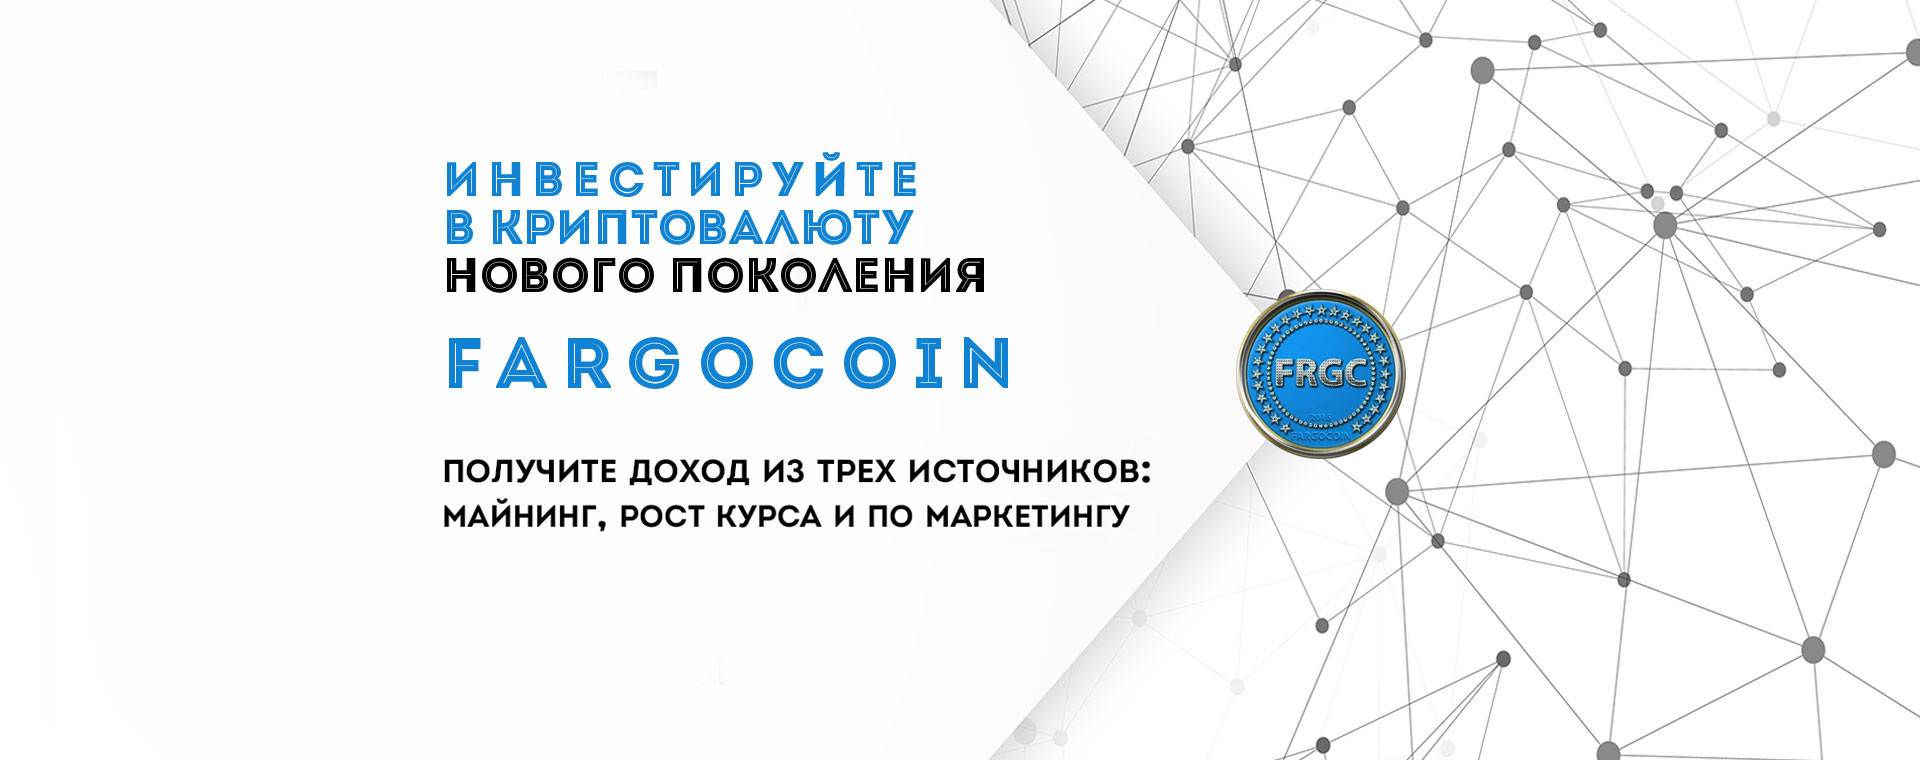
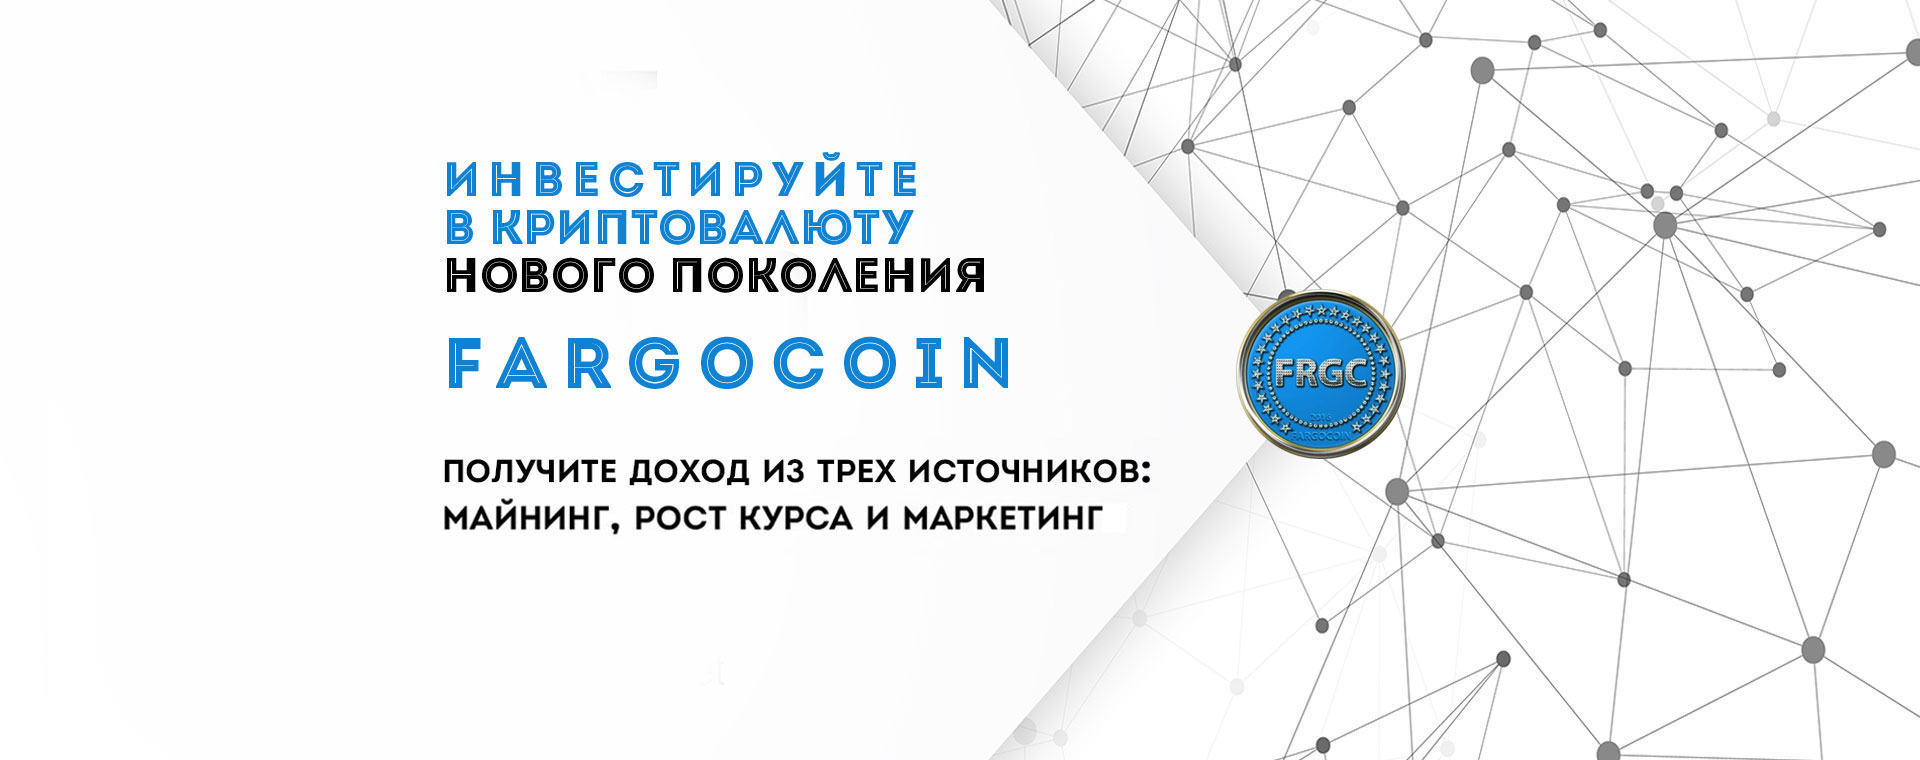
Add files via upload

Changed region(s): [[0.2188, 0.6658, 0.5938, 0.6961]]

diff --git a/app/index.html b/app/index.html
@@ -75,7 +75,7 @@
             </div>
         </nav>
         <img src="images/header.jpg"
-             alt="Инвестируйте в криптовалюту нового поколения Fargocoin. Получите доход из трех источников: майнинг, рост курса и по маркетингу"
+             alt="Инвестируйте в криптовалюту нового поколения Fargocoin. Получите доход из трех источников: майнинг, рост курса и маркетинг"
              class="img-responsive header-img">
         <div class="container-fluid slogan">
             <div class="row">
@@ -83,10 +83,9 @@
                     <div class="row">
                         <img src="images/slogan.png" alt="Гарантированный пассивный доход минимум 500% годовых"
                              class="slogan-img">
-                        <div class="slogan-more">Чтобы узнать больше, зарегистрируйтесь бесплатно на сайте компании
-                            Befargo
-                        </div>
-                        <a class="btn btn-info slogan-button" href="">Регистрация</a>
+                        <div class="slogan-more">Чтобы узнать больше, помотрите здесь !</div>
+                        <a class="btn btn-info slogan-button" href="https://befargo.com/?ref=vlkr" target="_blank">Узнать
+                            больше</a>
                     </div>
                 </div>
             </div>
@@ -155,7 +154,7 @@
                             <li><span>Партнерская программа позволяет значительно зарабатывать на реферальных бонусах от партнерской сети.</span>
                             </li>
                         </ol>
-                        <a class="btn btn-info" href="">Присоединиться</a>
+                        <a class="btn btn-info" href="https://befargo.com/?ref=vlkr" target="_blank">Присоединиться</a>
                     </div>
                 </div>
             </div>
@@ -165,22 +164,22 @@
                 <h2 title="Видео по теме Фаргокоин"><img class="section-title" src="images/title-3.png"
                                                          alt="Видео по теме Фаргокоин"></h2>
                 <div class="col-xs-12 col-sm-6 video">
-                    <iframe width="855" height="493" src="https://www.youtube.com/embed/7zsxi2ddKvw" frameborder="0"
+                    <iframe width="560" height="315" src="https://www.youtube.com/embed/Es1k33PFt3U" frameborder="0"
                             allow="autoplay; encrypted-media" allowfullscreen></iframe>
                 </div>
                 <div class="col-xs-12 col-sm-6 video">
-                    <iframe width="480" height="277" src="https://www.youtube.com/embed/9nxRJKKt0Z4" frameborder="0"
+                    <iframe width="560" height="315" src="https://www.youtube.com/embed/OYEsheWI44I" frameborder="0"
                             allow="autoplay; encrypted-media" allowfullscreen></iframe>
                 </div>
             </div>
         </div>
-        <div class="container-fluid section-4">
+        <div class="container-fluid section-7 section-4">
             <div class="row">
                 <div class="container">
                     <div class="row">
-                        <h2 title="Не упускайте шанс! Начните бизнес уже сегодня"><img class="section-title"
-                                                                                       src="images/title-4.png"
-                                                                                       alt="Не упускайте шанс! Начните бизнес уже сегодня">
+                        <h2 title="Не упускайте шанс! Начните бизнес уже сегодня">
+                            <img class="section-title" src="images/title-4.png"
+                                 alt="Не упускайте шанс! Начните бизнес уже сегодня">
                         </h2>
                         <h4>
                             8 аргументов вступить в сильную команду с гарантированно растущим доходом.<br>
@@ -224,6 +223,9 @@
                         <h4>
                             Не упускайте эту возможность, чтобы не жалеть о упущенной выгоде в будущем.
                         </h4>
+                        <div class="col-xs-12 text-center">
+                            <a href="" class="btn btn-info">Бесплатно зарегистрироваться</a>
+                        </div>
                     </div>
                 </div>
             </div>
@@ -232,9 +234,17 @@
             <div class="row">
                 <h2 title="Отзывы"><img class="section-title" src="images/title-5.png" alt="Отзывы"></h2>
                 <div class="col-xs-12 review">
-                    Lorem ipsum dolor sit amet, consectetur adipisicing elit. Aperiam cumque eius minima officia
-                    voluptatibus. Ad adipisci alias, aliquam asperiores ea harum iste maxime mollitia, nam omnis
-                    quibusdam sequi veritatis, voluptas.
+                    <div id="disqus_thread"></div>
+                    <script>
+                        (function () { // DON'T EDIT BELOW THIS LINE
+                            var d = document, s = d.createElement('script');
+                            s.src = 'https://http-writerworks-com-ua.disqus.com/embed.js';
+                            s.setAttribute('data-timestamp', +new Date());
+                            (d.head || d.body).appendChild(s);
+                        })();
+                    </script>
+                    <noscript>Please enable JavaScript to view the <a href="https://disqus.com/?ref_noscript">comments
+                        powered by Disqus.</a></noscript>
                 </div>
             </div>
         </div>
@@ -259,36 +269,34 @@
                 <h2 title="Наши ресурсы"><img class="section-title" src="images/title-7.png" alt="Наши ресурсы"></h2>
                 <div class="col-xs-12 resource">
                     <div class="col-xs-12 col-sm-6 col-md-4 resource-block">
-                        Главный сайт <a href="">fargocoin.org</a>
+                        Главный сайт <a href="https://fargocoin.org" target="_blank">fargocoin.org</a>
                     </div>
                     <div class="col-xs-12 col-sm-6 col-md-4 resource-block">
-                        Сайт Befargo <a href="">befargo.com</a>
+                        Сайт Befargo <a href="https://befargo.com" target="_blank">befargo.com</a>
                     </div>
                     <div class="col-xs-12 col-sm-6 col-md-4 resource-block">
-                        Биржа Сoinrate <a href="">coinrate.net</a>
+                        Биржа Сoinrate <a href="https://coinrate.net" target="_blank">coinrate.net</a>
                     </div>
                     <div class="col-xs-12 col-sm-6 col-md-4 resource-block">
-                        Биржа Fargobase <a href="">fargobase.com</a>
+                        Биржа Fargobase <a href="https://fargobase.com" target="_blank">fargobase.com</a>
                     </div>
                     <div class="col-xs-12 col-sm-6 col-md-4 resource-block">
-                        Блокчейн <a href="">fargochain.org</a>
+                        Блокчейн <a href="https://fargochain.org" target="_blank">fargochain.org</a>
                     </div>
                     <div class="col-xs-12 col-sm-6 col-md-4 resource-block">
-                        Лотерея <a href="">fargolot.com</a>
+                        Лотерея <a href="https://fargolot.com" target="_blank">fargolot.com</a>
                     </div>
                     <div class="col-xs-12 col-sm-6 col-md-4 resource-block">
-                        КоинМаркетКап <a href="">coinmarketcap.com</a>
+                        КоинМаркетКап <a href="https://coinmarketcap.com" target="_blank">coinmarketcap.com</a>
                     </div>
                     <div class="col-xs-12 col-sm-6 col-md-4 resource-block">
-                        Покупка отелей и авиабилетов  <a href="">fargosky.com</a>
+                        Покупка отелей и авиабилетов <a href="https://fargosky.com" target="_blank">fargosky.com</a>
                     </div>
                     <div class="col-xs-12 col-sm-6 col-md-4 resource-block">
-                        Fargo Кран <a href="">fargofaucet.com</a>
+                        Fargo Кран <a href="https://fargofaucet.com" target="_blank">fargofaucet.com</a>
                     </div>
                 </div>
-                <div class="col-xs-12 text-center">
-                    <a href="" class="btn btn-info">Бесплатно зарегистрироваться</a>
-                </div>
+
             </div>
         </div>
     </main>
@@ -298,7 +306,8 @@
                 <div class="container">
                     <div class="row">
                         <div class="col-xs-12 contact-block">
-                            <h3>Получить <span>бесплатную</span> консультацию по методам и способам заработка на криптовалюте</h3>
+                            <h3>Получить <span>бесплатную</span> консультацию по методам и способам заработка на
+                                криптовалюте</h3>
                         </div>
                         <div class="col-xs-12 col-sm-6 contact-block form">
                             <form class="form-block" id="contact-form" method="post" action="sendmail.php">
@@ -309,7 +318,8 @@
                                     <input type="email" name="email" id="email" required placeholder="Ваш E-mail">
                                 </div>
                                 <div class="col-xs-12">
-                                    <textarea name="message" id="message" cols="30" rows="3" required placeholder="Ваше сообщение"></textarea>
+                                    <textarea name="message" id="message" cols="30" rows="3" required
+                                              placeholder="Ваше сообщение"></textarea>
                                 </div>
                                 <div class="col-xs-12">
                                     <button type="submit" id="submit" class="btn btn-info submit">Задать вопрос</button>
@@ -317,10 +327,12 @@
                             </form>
                         </div>
                         <div class="col-xs-12 col-sm-5 col-sm-offset-1 contact-block address">
-                            <p>тел.: <a href="">+38 050 330 43 88</a>, <a href="">viber</a>, <a href="">telegram</a>,</p>
-                            <p>whatsup: <a href="">+38 067 216 26 89</a></p>
-                            <p>skype: <a href="">Buisnessinternet.ru1</a>,</p>
-                            <p>e-mail: <a href="">buisnessinternet.ru@gmail.com</a></p>
+                            <p>тел.: <a href="tel:+380503304388">+38 050 330 43 88</a></p>
+                            <p>тел.: <a href="tel:+380672162689">+38 067 216 26 89</a></p>
+                            <p>viber: <a href="viber://add?number=380672162689">+38 067 216 26 89</a></p>
+                            <p>telegram: <a href="tg://resolve?domain=@380672162689">+38 067 216 26 89</a></p>
+                            <p>whatsapp: <a href="whatsapp://send?phone=+380672162689">+38 067 216 26 89</a></p>
+                            <p>skype: <a href="skype:Buisnessinternet.ru1?chat">Buisnessinternet.ru1</a></p>
                         </div>
                     </div>
                 </div>
@@ -331,7 +343,8 @@
                 <div class="container">
                     <div class="row">
                         <div class="col-xs-12">
-                            Все права защищены. &copy; <span id="year"></span>. Разработка сайта <a href="https://xwork.site">xwork</a>.
+                            Все права защищены. &copy; <span id="year"></span>. Разработка сайта <a
+                                href="https://xwork.site" target="_blank">xwork</a>.
                         </div>
                     </div>
                 </div>
@@ -345,10 +358,48 @@
 <script src="js/jquery-1.12.4.min.js"></script>
 <script src="js/bootstrap.min.js"></script>
 <script src="js/jquery.matchHeight-min.js"></script>
+<script id="dsq-count-scr" src="//http-writerworks-com-ua.disqus.com/count.js" async></script>
 
 <!--build:js js/main.min.js -->
 <script src="js/script.js"></script>
 <!-- endbuild -->
+
+Счетчик Yandex Metrica                                                        <!-- Yandex.Metrika counter -->
+<script type="text/javascript">
+    (function (d, w, c) {
+        (w[c] = w[c] || []).push(function () {
+            try {
+                w.yaCounter48945053 = new Ya.Metrika({
+                    id: 48945053,
+                    clickmap: true,
+                    trackLinks: true,
+                    accurateTrackBounce: true,
+                    webvisor: true
+                });
+            } catch (e) {
+            }
+        });
+
+        var n = d.getElementsByTagName("script")[0],
+            s = d.createElement("script"),
+            f = function () {
+                n.parentNode.insertBefore(s, n);
+            };
+        s.type = "text/javascript";
+        s.async = true;
+        s.src = "https://mc.yandex.ru/metrika/watch.js";
+
+        if (w.opera == "[object Opera]") {
+            d.addEventListener("DOMContentLoaded", f, false);
+        } else {
+            f();
+        }
+    })(document, window, "yandex_metrika_callbacks");
+</script>
+<noscript>
+    <div><img src="https://mc.yandex.ru/watch/48945053" style="position:absolute; left:-9999px;" alt=""/></div>
+</noscript>
+<!-- /Yandex.Metrika counter -->
 </body>
 
 </html>

diff --git a/app/sendmail.php b/app/sendmail.php
@@ -4,7 +4,7 @@
 if ( isset($_POST['email']) && isset($_POST['name']) && isset($_POST['message']) ) {
 
 	//$to = "mister.slaus@gmail.com";	// receiver of the email
-        $to="mister.slaus@gmail.com";
+        $to="buisnessinternet.ru@gmail.com";
         $subject = "Сообщение с сайта fargocoin";			// subject of the email
 	$message = '
 	<html>
